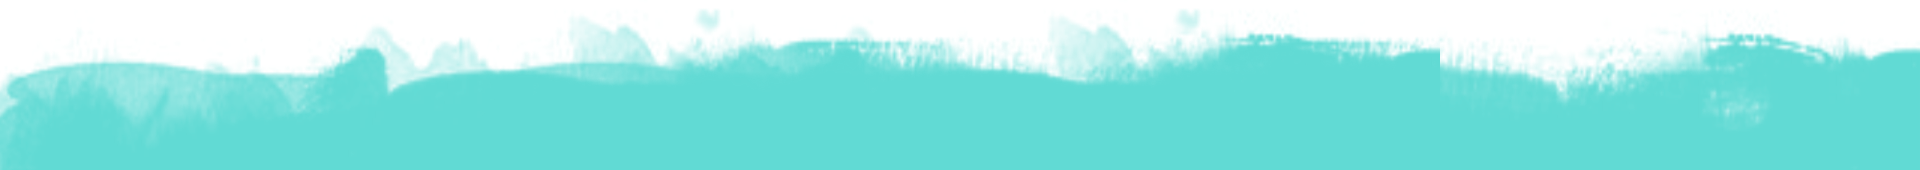
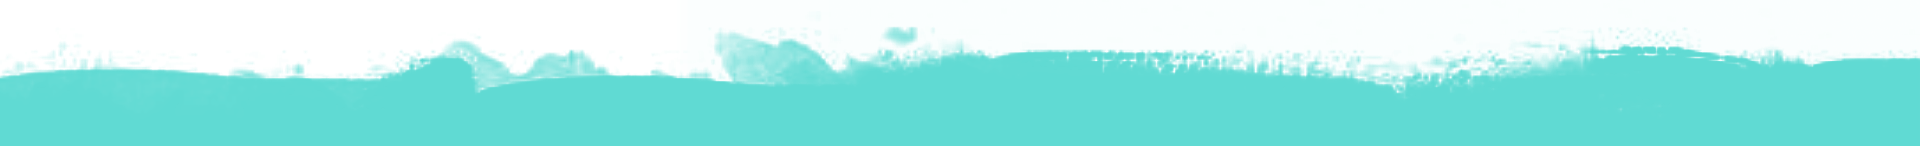
footer RWD 修改

diff --git a/src/components/Footer.js b/src/components/Footer.js
@@ -11,56 +11,70 @@ import { FaLine } from 'react-icons/fa';
 function Footer(props) {
   return (
     <>
-    <div className="footerWrapperPC container-fluid">
-      
-        <div className="container-fluid footerContent">
-            <div className="row d-flex justify-content-center align-items-start flex-wrap">
-              <div className="col-3 col-md-3 ">
+
+    <div className="container-fluid footerWrapperPC">
+    <div className="footerOutSide row gx-0">
+        <div className="footerUpPC col-12"></div>
+        <div className="footerContent">
+            <div className="d-flex justify-content-center align-items-start flex-wrap">
+              <div className="col-6 col-lg-3 p-3">
                   <div className="h5 fw-bold pb-4 text-wrap">關於我們</div>
                   <div className="h5 fw-normal text-wrap">FUNWAVEFUN浪</div>
                   <div className="h5 fw-normal text-wrap">這裡是衝浪愛好者的集散地，</div>
                   <div className="h5 fw-normal text-wrap">一起FUN，一起浪！</div>
               </div>
-              <div className="col-3 col-md-3">
+              <div className="col-6 col-lg-3 p-3">
                   <div className="h5 fw-bold pb-4 text-wrap">聯繫我們</div>
                   <div className="h5 fw-normal text-wrap">0800 - 078 - 578</div>
                   <div className="h5 fw-normal text-wrap text-break">funwave.funwave@gmail.com</div>
                   <div className="h5 fw-normal text-wrap">078-基隆市萬里鎮海邊小路78號</div>
               </div>
-              <div className="col-3 col-md-3">
+              <div className="col-6 col-lg-3 p-3">
                   <div className="h5 fw-bold pb-4 text-wrap">追蹤我們</div>
                   <div className="d-flex justify-content-start align-items-center mt-1">
-                        <a href="https://twitter.com/funwave_funwave">
-                          <BsFacebook
-                          className="me-3"
-                          size={24}
-                          color="#333333"
-                          />
-                        </a>
-                        <a href="https://twitter.com/funwave_funwave">
-                          <AiFillInstagram
-                          className="me-3"
-                          size={30}
-                          color="#333333"
-                          />
-                        </a>
-                        <a href="https://twitter.com/funwave_funwave">
-                          <AiFillTwitterCircle
-                            className="me-3"
-                            size={30}
-                            color="#333333"
-                          />
-                        </a>
-                        <a href="https://line.me/ti/g2/rnd10J2RcMA2iyHV7Z7scWAkX3g-K7m88yfvTg?utm_source=invitation&utm_medium=link_copy&utm_campaign=default">
-                          <FaLine
-                            className="me-3"
-                            size={30}
-                            color="#333333"
-                          />
-                        </a>
+                        <div className="row row-cols-2 row-cols-md-4 gx-0 d-flex justify-content-center align-items-center">
+                          <div className="d-flex justify-content-center align-items-center">
+                            <div className="col mb-3">
+                              <a href="https://twitter.com/funwave_funwave">
+                                <BsFacebook
+                                className="me-3"
+                                size={28}
+                                color="#333333"
+                                />
+                              </a>
+                            </div>
+                            <div className="col mb-3">
+                              <a href="https://twitter.com/funwave_funwave">
+                                <AiFillInstagram
+                                className="me-3"
+                                size={34}
+                                color="#333333"
+                                />
+                              </a>
+                            </div>
+                            <div className="col mb-3">
+                              <a href="https://twitter.com/funwave_funwave">
+                                <AiFillTwitterCircle
+                                  className="me-3"
+                                  size={32}
+                                  color="#333333"
+                                />
+                              </a>
+                            </div>
+                            <div className="col mb-3">
+                              <a href="https://line.me/ti/g2/rnd10J2RcMA2iyHV7Z7scWAkX3g-K7m88yfvTg?utm_source=invitation&utm_medium=link_copy&utm_campaign=default">
+                                <FaLine
+                                  className="me-3"
+                                  size={30}
+                                  color="#333333"
+                                />
+                              </a>
+                            </div>
+                          </div>
+                        </div>
                   </div>  
               </div>
-              <div className="col-3 col-md-3">
+              <div className="col-6 col-lg-3 p-3">
                   <Figure href="/home" className="">
                     <img src={logo} className="imgLogo" />
                   </Figure>
@@ -69,12 +83,13 @@ function Footer(props) {
             </div>
         </div>
       </div>
+      </div>
 
       {/* //////////////////////////////// */}
 
       <div className="footerWrapperMO d-flex justify-content-center align-items-center flex-wrap">
       
-        <div className="container footerContent px-5 me-0">
+        <div className="container-fluid footerContent px-5 me-0">
             <div className="row d-flex justify-content-center align-items-center flex-wrap text-center">
               <div className="col-12 pb-3">
                   <div className="h5 fw-bold pb-1 text-wrap">關於我們</div>

diff --git a/src/styles/footer.scss b/src/styles/footer.scss
@@ -1,35 +1,43 @@
 @import './global.scss';
 
-@media screen and (min-width: 379px) {
+@media screen and (min-width: 746px) {
     .footerWrapperMO {
         display: none !important;
     }
 }
 
+// .footerOutside {
+//    
+// }
 
 .footerWrapperPC {
 
-    background: url('../data/images/home/footer.png') center center no-repeat;
+    width: 100%;
+    height: 100%;
+}
+
+.footerUpPC {
+    background: url('../data/images/home/footerUP.png') center center no-repeat;
     background-size: cover;
     width: 100%;
-    height: 46vh;
-    position: relative;
-    z-index: 998;
+    height: 146px;
+
 }
 
 .footerContent {
-    position: absolute;
-    top: 38%;
-    z-index: 999;
-    margin-left: -20px;
-    padding: 0 80px 0 100px;
+    background-color: #5fdad3;
+    height: auto;
+    padding: 0 80px 40px 100px;
 }
 
 
 .imgLogo {
     color: #333333;
-    width: 196px;
-    height: 30px;
+    width: 90%;
+    max-width: 196px;
+    max-height: 30px;
+    min-width: 152px;
+    min-height: 24px;
 }
 
 .textBreakFooter {
@@ -39,7 +47,32 @@
 }
 
 
+@media screen and (max-width: 745px) {
 
+    .footerWrapperPC {
+        display: none;
+    }
+
+    .footerWrapperMO {
+
+        background: url('../data/images/home/footerMID.png') center center no-repeat;
+        background-size: cover;
+        width: 100%;
+        height: 70vh;
+        position: relative;
+        z-index: 10;
+
+    }
+
+    .footerContent {
+        position: absolute;
+        top: 26%;
+        z-index: 11;
+        margin-left: 0px;
+    }
+
+
+}
 
 
 @media screen and (max-width: 378px) {
@@ -73,14 +106,14 @@
         width: 100%;
         height: 88vh;
         position: relative;
-        z-index: 998;
+        z-index: 10;
 
     }
 
     .footerContent {
         position: absolute;
         top: 18%;
-        z-index: 999;
+        z-index: 11;
         margin-left: 0px;
     }
 

diff --git a/src/App.js b/src/App.js
@@ -103,7 +103,7 @@ function App() {
     <>
       <AuthContext.Provider value={{ auth, setAuth }}>
         <FavContext.Provider value={{ fav, setFav }}>
-          <div className="routesApp">
+          {/* <div className="routesApp"> */}
           <Header />
           <ScrollToTop />
           {/* <Breadcrumb /> */}
@@ -168,12 +168,13 @@ function App() {
             <Route path="*" element={<NotFound />} />
           </Routes>
 
-            <div className="footerApp">
-              <Footer  />
-            </div>
-        </div>
+            {/* <div className="footerApp"> */}
+              {/* <Footer  /> */}
+            {/* </div>
+        </div> */}
         </FavContext.Provider>
       </AuthContext.Provider>
+      <Footer /> {/* 試著把footer換位置，看會不會就不會露白，但還是露白 */}
     </>
   );
 }
